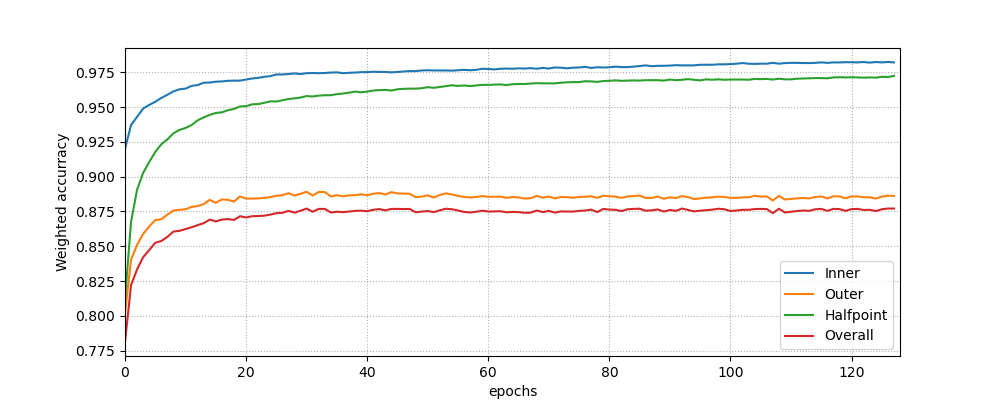
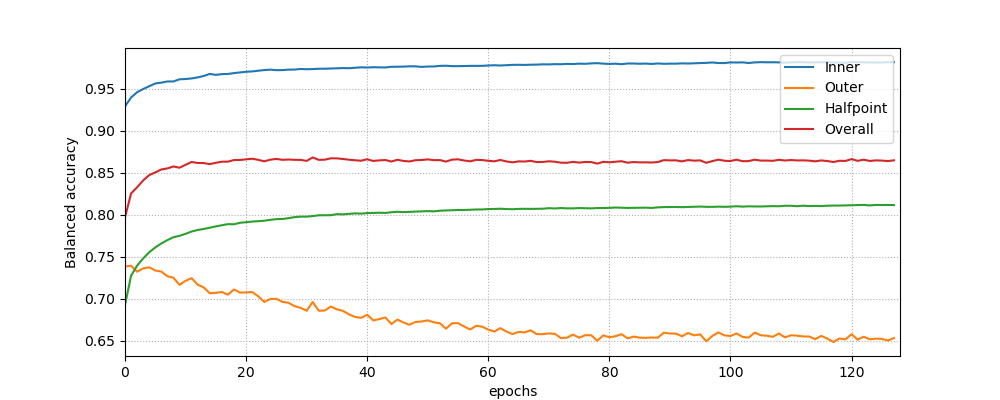
Use balanced accuracy as base metric

diff --git a/torchosr/models/GSL.py b/torchosr/models/GSL.py
@@ -85,14 +85,15 @@ class GSL(OSRModule):
         outer_targets = []
         overall_targets = []
         
-        # Define metric for open set detection
+        # Define metrics for open set detection
         try:
-            inner_metric = Accuracy(task="multiclass", num_classes=self.n_known, average='weighted')
-            overall_metric = Accuracy(task="multiclass", num_classes=self.n_known+1, average='weighted')
+            inner_metric = Accuracy(task="multiclass", num_classes=self.n_known, average='macro')
+            overall_metric = Accuracy(task="multiclass", num_classes=self.n_known+1, average='macro')
         except:
             inner_metric = None
             overall_metric = None
-        outer_metric = Accuracy(task='binary', average='weighted')
+            
+        outer_metric = Accuracy(task='multiclass', num_classes=2, average='macro')
 
         with torch.no_grad():
             for X, y in dataloader:

diff --git a/torchosr/models/Openmax.py b/torchosr/models/Openmax.py
@@ -106,13 +106,13 @@ class Openmax(TSoftmax):
         
         # Define metrics for open set detection
         try:
-            inner_metric = Accuracy(task="multiclass", num_classes=self.n_known, average='weighted')
-            overall_metric = Accuracy(task="multiclass", num_classes=self.n_known+1, average='weighted')
+            inner_metric = Accuracy(task="multiclass", num_classes=self.n_known, average='macro')
+            overall_metric = Accuracy(task="multiclass", num_classes=self.n_known+1, average='macro')
         except:
             inner_metric = None
             overall_metric = None
             
-        outer_metric = Accuracy(task='binary', average='weighted')
+        outer_metric = Accuracy(task='multiclass', num_classes=2, average='macro')
 
         with torch.no_grad():
             for X, y in dataloader:

diff --git a/torchosr/models/TSoftmax.py b/torchosr/models/TSoftmax.py
@@ -38,11 +38,12 @@ class TSoftmax(OSRModule):
         
         # Define metric for open set detection
         try:
-            inner_metric = Accuracy(task="multiclass", num_classes=self.n_known, average='weighted')
-            overall_metric = Accuracy(task="multiclass", num_classes=self.n_known+1, average='weighted')
+            inner_metric = Accuracy(task="multiclass", num_classes=self.n_known, average='macro')
+            overall_metric = Accuracy(task="multiclass", num_classes=self.n_known+1, average='macro')
         except:
             inner_metric = None
-        outer_metric = Accuracy(task='binary', average='weighted')
+            
+        outer_metric = Accuracy(task='multiclass', num_classes=2, average='macro')
 
         with torch.no_grad():
             for X, y in dataloader:

diff --git a/torchosr/_version.py b/torchosr/_version.py
@@ -1,3 +1,3 @@
 """``torchosr``"""
 
-__version__ = "0.1.2"
+__version__ = "0.1.3"

diff --git a/docs/source/quickstart.rst b/docs/source/quickstart.rst
@@ -156,7 +156,7 @@ The results of the single processing can be visualized using `matplotlib` librar
   ax.legend()
   ax.grid(ls=':')
   ax.set_xlabel('epochs')
-  ax.set_ylabel('Weighted accurracy')
+  ax.set_ylabel('Balanced accurracy')
   ax.set_xlim(0,epochs)
 
 .. image:: _static/example.png

diff --git a/README.md b/README.md
@@ -171,7 +171,7 @@ ax.plot(results.T, label=['Inner', 'Outer', 'Halfpoint', 'Overall'])
 ax.legend()
 ax.grid(ls=':')
 ax.set_xlabel('epochs')
-ax.set_ylabel('Weighted accurracy')
+ax.set_ylabel('Balanced accurracy')
 ax.set_xlim(0,epochs)
 ```
 
